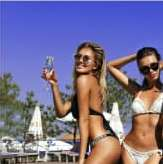
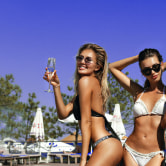
optimized images

diff --git a/src/sass/components/social/_social-article.scss b/src/sass/components/social/_social-article.scss
@@ -91,11 +91,38 @@
     }
 }
 
-.social-article__gallery {}
+.social-article__gallery {
+    display: flex;
+    flex-wrap: wrap;
+    column-gap: 3px;
+    row-gap: 3px;
 
-.social-article__item {}
+    @include mq('tablet') {
+        column-gap: 5px;
+        row-gap: 5px;
+    }
 
-.social-article__img {}
+}
+
+.social-article__item {
+    height: 82px;
+    overflow: hidden;
+
+    flex-basis: calc((100% - 6px) / 3);
+
+    // background-color: green;
+    background-color: $footer-background-color;
+
+    @include mq('tablet') {
+        height: 133px;
+        flex-basis: calc((100% - 10px) / 3);
+    }
+}
+
+.social-article__img {
+    display: block;
+    object-fit: cover;
+}
 
 .social-article__refresh-btn {
     font-family: Inter, sans-serif;
